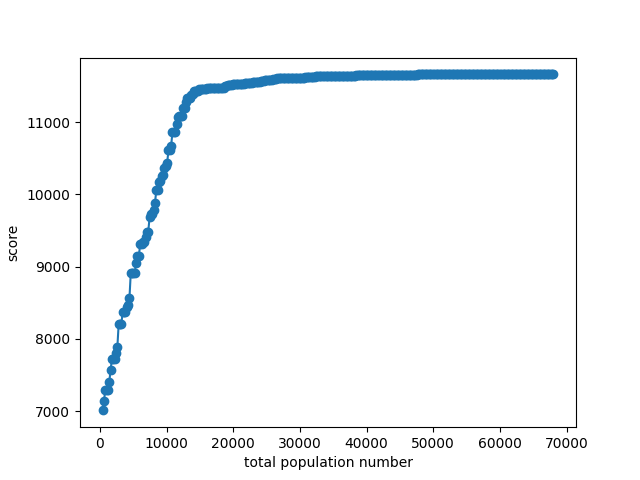
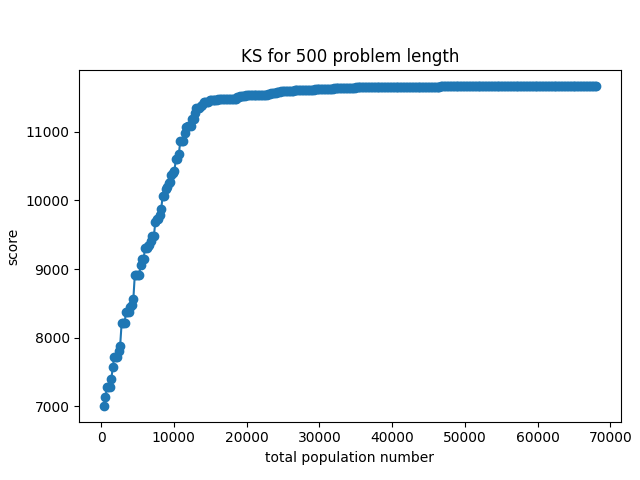
first

diff --git a/HW2.py b/HW2.py
@@ -38,6 +38,39 @@ def plotter(x,y,label,name,x_label="number of iterations"):
     plt.plot(x, y , "-o", label=label)
     plt.xlabel(x_label)
     plt.ylabel("score")
+    plt.title(label)
+    plt.savefig(name)
+    plt.clf()
+
+def plotter22(x1,y1,x2,y2,x3,y3,x4,y4,name,label_suf):
+    plt.subplot(2,2,1)
+    plt.plot(x1, y1 , "-o", label="RHC for"+label_suf)
+    plt.xlabel("number of iterations")
+    plt.ylabel("score")
+    plt.title("RHC for"+label_suf)
+
+    plt.subplot(2, 2, 2)
+    plt.plot(x2, y2, "-o", label="SA for" + label_suf)
+    plt.xlabel("number of iterations")
+    plt.ylabel("score")
+    plt.title("SA for" + label_suf)
+
+    plt.subplot(2, 2, 3)
+    plt.plot(x3, y3, "-o", label="GA for" + label_suf)
+    plt.xlabel("total population")
+    plt.ylabel("score")
+    plt.title("GA for" + label_suf)
+
+    plt.subplot(2, 2, 4)
+    plt.plot(x4, y4, "-o", label="MIMIC for" + label_suf)
+    plt.xlabel("total population")
+    plt.ylabel("score")
+    plt.title("MIMIC for" + label_suf)
+
+    plt.suptitle(label_suf+ " problem")
+
+    plt.tight_layout()
+
     plt.savefig(name)
     plt.clf()
 
@@ -75,7 +108,7 @@ print("---------------------")
 
 problem_set = mlrose_hiive.DiscreteOpt(queens,fun,max_val = queens)
 
-if 0:
+if 1:
     t0=time.time()
     queens_RHC = mlrose_hiive.random_hill_climb(problem_set, max_attempts=5000, max_iters=10000, restarts=0,init_state=None, curve=True, random_state=812)
     dt=time.time()-t0
@@ -83,7 +116,7 @@ if 0:
     plotter(queens_RHC[2][:,1], queens_RHC[2][:,0],"RHC for "+str(queens)+" queens", "Queens_RHC.png")
     print("---------------------")
 
-if 0:
+if 1:
     t0=time.time()
     queens_SA = mlrose_hiive.simulated_annealing(problem_set, schedule=mlrose_hiive.GeomDecay(), max_attempts=1000,max_iters=10000, init_state=None, curve=True,random_state=812)
     dt=time.time()-t0
@@ -91,7 +124,7 @@ if 0:
     plotter(queens_SA[2][:,1], queens_SA[2][:,0],"SA for "+str(queens)+" queens", "Queens_SA.png")
     print("---------------------")
 
-if 0:
+if 1:
     t0=time.time()
     queens_GA = mlrose_hiive.genetic_alg(problem_set, pop_size=200, mutation_prob=0.1, max_attempts=20,max_iters=20000, curve=True, random_state=812)
     dt=time.time()-t0
@@ -99,13 +132,15 @@ if 0:
     plotter(queens_GA[2][:,1], queens_GA[2][:,0],"GA for "+str(queens)+" queens", "Queens_GA.png","total population number")
     print("---------------------")
 
-if 0:
+if 1:
     t0=time.time()
     queens_MIMIC = mlrose_hiive.mimic(problem_set, pop_size=500, keep_pct=0.5, max_attempts=10,max_iters=20000, curve=True, random_state=812)
     dt=time.time()-t0
     print("Queens MIMIC for ",queens," run for ", dt," seconds ", "with the best score of ",  queens_MIMIC[1])
     plotter(queens_MIMIC[2][:,1], queens_MIMIC[2][:,0],"MIMIC for "+str(queens)+" queens", "Queens_MIMIC.png","total population number")
     print("---------------------")
+
+    plotter22(queens_RHC[2][:,1], queens_RHC[2][:,0],queens_SA[2][:,1], queens_SA[2][:,0],queens_GA[2][:,1], queens_GA[2][:,0],queens_MIMIC[2][:,1], queens_MIMIC[2][:,0], "Queens_full_plot.png", str(queens)+" queens")
 
 
 #FlipFlop
@@ -236,7 +271,7 @@ if 0:
 knap_num=500
 problem_set = mlrose_hiive.KnapsackOpt(weights=np.random.uniform(20,40,knap_num), values=np.random.uniform(20,30,knap_num),max_weight_pct=0.9)
 
-if 0:
+if 1:
     t0=time.time()
     KS_RHC = mlrose_hiive.random_hill_climb(problem_set, max_attempts=5000, max_iters=5000, restarts=0,init_state=None, curve=True, random_state=812)
     dt=time.time()-t0
@@ -244,29 +279,32 @@ if 0:
     plotter(KS_RHC[2][:,1], KS_RHC[2][:,0],"KS for "+str(knap_num)+" problem length", "KS_RHC.png")
     print("---------------------")
 
-if 0:
+if 1:
     t0=time.time()
     KS_SA = mlrose_hiive.simulated_annealing(problem_set, schedule=mlrose_hiive.GeomDecay(), max_attempts=5000,max_iters=500000, init_state=None, curve=True,random_state=812)
     dt=time.time()-t0
     print("KS SA for ",knap_num," run for ", dt," seconds ", "with the best score of ",  KS_SA[1])
-    plotter(KS_SA[2][:,1], KS_SA[2][:,0],"KS for "+str(knap_num)+" problem length", "KS_SA.png")
+    plotter(KS_SA[2][:,1], KS_SA[2][:,0],"KS for "+str(knap_num)+" items in knapsack", "KS_SA.png")
     print("---------------------")
 
-if 0:
+if 1:
     t0=time.time()
     KS_GA = mlrose_hiive.genetic_alg(problem_set, pop_size=200, mutation_prob=0.1, max_attempts=100,max_iters=5000, curve=True, random_state=812)
     dt=time.time()-t0
     print("KS GA for ",knap_num," run for ", dt," seconds ", "with the best score of ",  KS_GA[1])
-    plotter(KS_GA[2][:,1], KS_GA[2][:,0],"KS for "+str(knap_num)+" problem length", "KS_GA.png","total population number")
+    plotter(KS_GA[2][:,1], KS_GA[2][:,0],"KS for "+str(knap_num)+" items in knapsack", "KS_GA.png","total population number")
     print("---------------------")
 
-if 0:
+if 1:
     t0=time.time()
     KS_MIMIC = mlrose_hiive.mimic(problem_set, pop_size=20, keep_pct=0.5, max_attempts=10,max_iters=50, curve=True, random_state=812)
     dt=time.time()-t0
     print("KS MIMIC for ",knap_num," run for ", dt," seconds ", "with the best score of ",  KS_MIMIC[1])
-    plotter(KS_MIMIC[2][:,1], KS_MIMIC[2][:,0],"KS for "+str(knap_num)+" problem length", "KS_MIMIC.png","total population number")
+    plotter(KS_MIMIC[2][:,1], KS_MIMIC[2][:,0],"KS for "+str(knap_num)+" items in knapsack", "KS_MIMIC.png","total population number")
     print("---------------------")
+
+    plotter22(KS_RHC[2][:,1], KS_RHC[2][:,0],KS_SA[2][:,1], KS_SA[2][:,0],KS_GA[2][:,1], KS_GA[2][:,0],KS_MIMIC[2][:,1], KS_MIMIC[2][:,0], "KS_full_plot.png", str(knap_num)+" items in knapsack")
+
 
 
 #Four peaks
@@ -299,42 +337,45 @@ for i in range(num_edges):
 
 problem_set = mlrose_hiive.DiscreteOpt(length = num_dots, fitness_fn = mlrose_hiive.MaxKColor(edges), maximize=True,max_val=num_colors)
 
-if 0:
+if 1:
     t0=time.time()
     KC_RHC = mlrose_hiive.random_hill_climb(problem_set, max_attempts=5000, max_iters=50000, restarts=0,init_state=None, curve=True, random_state=812)
     dt=time.time()-t0
     print("KC RHC for ", num_edges, " run for ", dt, " seconds ", "with the best score of ", KC_RHC[1])
-    plotter(KC_RHC[2][:, 1], KC_RHC[2][:, 0], "KC for " + str(num_edges) + " problem length", "KC_RHC.png")
+    plotter(KC_RHC[2][:, 1], KC_RHC[2][:, 0], "KC for " str(num_edges)+" number of edges "+str(num_towns)+" nodes and "+str(num_colors)+" colors", "KC_RHC.png")
     print("---------------------")
 
-if 0:
+if 1:
     t0=time.time()
     KC_SA = mlrose_hiive.simulated_annealing(problem_set, schedule=mlrose_hiive.GeomDecay(), max_attempts=5000,max_iters=50000, init_state=None, curve=True,random_state=812)
     dt=time.time()-t0
     print("KC SA for ",num_edges," run for ", dt," seconds ", "with the best score of ",  KC_SA[1])
-    plotter(KC_SA[2][:,1], KC_SA[2][:,0],"FP for "+str(num_edges)+" problem length", "KC_SA.png")
+    plotter(KC_SA[2][:,1], KC_SA[2][:,0],"KC for "+str(num_edges)+" number of edges "+str(num_towns)+" nodes and "+str(num_colors)+" colors", "KC_SA.png")
     print("---------------------")
 
-if 0:
+if 1:
     t0=time.time()
     KC_GA = mlrose_hiive.genetic_alg(problem_set, pop_size=500, mutation_prob=0.5, max_attempts=100,max_iters=15000, curve=True, random_state=812)
     dt=time.time()-t0
     print("KC GA for ",num_edges," run for ", dt," seconds ", "with the best score of ",  KC_GA[1])
-    plotter(KC_GA[2][:,1], KC_GA[2][:,0],"KS for "+str(num_edges)+" number of edges", "KC_GA.png","total population number")
+    plotter(KC_GA[2][:,1], KC_GA[2][:,0],"KC for "+str(num_edges)+" number of edges "+str(num_towns)+" nodes and "+str(num_colors)+" colors", "KC_GA.png","total population number")
     print("---------------------")
 
-if 0:
+if 1:
     t0=time.time()
     KC_MIMIC = mlrose_hiive.mimic(problem_set, pop_size=400, keep_pct=0.8, max_attempts=20,max_iters=200, curve=True, random_state=812)
     dt=time.time()-t0
     print("KC MIMIC for ",num_edges," run for ", dt," seconds ", "with the best score of ",  KC_MIMIC[1])
-    plotter(KC_MIMIC[2][:,1], KC_MIMIC[2][:,0],"KC for "+str(num_edges)+" number of edges", "KC_MIMIC.png","total population number")
+    plotter(KC_MIMIC[2][:,1], KC_MIMIC[2][:,0],"KC for "+str(num_edges)+" number of edges "+str(num_towns)+" nodes and "+str(num_colors)+" colors", "KC_MIMIC.png","total population number")
     print("---------------------")
+
+    plotter22(KC_RHC[2][:,1], KC_RHC[2][:,0],KC_SA[2][:,1], KC_SA[2][:,0],KC_GA[2][:,1], KC_GA[2][:,0],KC_MIMIC[2][:,1], KC_MIMIC[2][:,0], "KC_full_plot.png", str(num_edges)+" number of edges "+str(num_towns)+" nodes and "+str(num_colors)+" colors")
+
 
 
 #Nueral nets optimizers
 fruits_train_x,fruits_train_y,fruits_test_x,fruits_test_y= frames("fruits_data.csv",0.2)
-if 0:
+if 1:
     Classifier=MLPClassifier(tol=0.005,hidden_layer_sizes=[25,25],activation='relu',learning_rate="constant",learning_rate_init=0.01, random_state=812)
     Classifier_RHC = mlrose_hiive.NeuralNetwork(hidden_nodes = [25,25], activation = 'relu', algorithm ="random_hill_climb",
                                      learning_rate = 0.02, random_state = 812,pop_size=200,mutation_prob=0.02,max_iters=100000)
@@ -376,24 +417,24 @@ if 0:
 
 Classifier=MLPClassifier(tol=0.005,hidden_layer_sizes=[25,25],activation='relu',learning_rate="constant",learning_rate_init=0.01, random_state=812)
 Classifier_RHC = mlrose_hiive.NeuralNetwork(hidden_nodes = [25,25], activation = 'relu', algorithm ="random_hill_climb",
-                                 learning_rate = 0.02, random_state = 812,pop_size=200,mutation_prob=0.02,max_iters=100000)
+                                 learning_rate = 0.02, random_state = 812,pop_size=200,mutation_prob=0.02,max_iters=10000)
 Classifier_SA = mlrose_hiive.NeuralNetwork(hidden_nodes = [25,25], activation = 'relu', algorithm ="simulated_annealing", schedule=mlrose_hiive.GeomDecay(init_temp=1, decay=0.99, min_temp=0.001),
-                                 learning_rate = 0.02, random_state = 812,pop_size=200,mutation_prob=0.02,max_iters=100000)
+                                 learning_rate = 0.02, random_state = 812,pop_size=200,mutation_prob=0.02,max_iters=10000)
 Classifier_GA = mlrose_hiive.NeuralNetwork(hidden_nodes = [25,25], activation = 'relu', algorithm = 'genetic_alg',
-                                 learning_rate = 0.02, random_state = 812,pop_size=50,mutation_prob=0.01,max_iters=5000)
+                                 learning_rate = 0.02, random_state = 812,pop_size=50,mutation_prob=0.01,max_iters=500)
 
 t0=time.time()
 a, train_score, test_score = sklearn.model_selection.learning_curve(Classifier, fruits_train_x,pd.get_dummies(fruits_train_y), train_sizes=np.linspace(0.25,1,10),scoring='f1_weighted', cv=2, n_jobs=-1)
 plot_11(train_score.mean(axis=1), test_score.mean(axis=1), np.linspace(0.25,1,10) * len(fruits_train_x), "NN_learning_curve","sample size", "NN_learning_curve.png")
 print(time.time()-t0," seconds")
 
-#a, train_score, test_score = sklearn.model_selection.learning_curve(Classifier_RHC, fruits_train_x,pd.get_dummies(fruits_train_y), train_sizes=np.linspace(0.25,1,10),scoring='f1_weighted', cv=2, n_jobs=-1)
-#plot_11(train_score.mean(axis=1), test_score.mean(axis=1), np.linspace(0.25,1,10) * len(fruits_train_x), "NN_RHC_learning_curve","sample size", "NN_RHC_learning_curve.png")
-#print(time.time()-t0," seconds")
+a, train_score, test_score = sklearn.model_selection.learning_curve(Classifier_RHC, fruits_train_x,pd.get_dummies(fruits_train_y), train_sizes=np.linspace(0.25,1,10),scoring='f1_weighted', cv=2, n_jobs=4)
+plot_11(train_score.mean(axis=1), test_score.mean(axis=1), np.linspace(0.25,1,10) * len(fruits_train_x), "NN_RHC_learning_curve","sample size", "NN_RHC_learning_curve.png")
+print(time.time()-t0," seconds")
 
-#a, train_score, test_score = sklearn.model_selection.learning_curve(Classifier_SA, fruits_train_x,pd.get_dummies(fruits_train_y), train_sizes=np.linspace(0.25,1,10),scoring='f1_weighted', cv=2, n_jobs=4)
-#plot_11(train_score.mean(axis=1), test_score.mean(axis=1), np.linspace(0.25,1,10) * len(fruits_train_x), "NN_SA_learning_curve","sample size", "NN_SA_learning_curve.png")
-#print(time.time()-t0," seconds")
+a, train_score, test_score = sklearn.model_selection.learning_curve(Classifier_SA, fruits_train_x,pd.get_dummies(fruits_train_y), train_sizes=np.linspace(0.25,1,10),scoring='f1_weighted', cv=2, n_jobs=4)
+plot_11(train_score.mean(axis=1), test_score.mean(axis=1), np.linspace(0.25,1,10) * len(fruits_train_x), "NN_SA_learning_curve","sample size", "NN_SA_learning_curve.png")
+print(time.time()-t0," seconds")
 
 a, train_score, test_score = sklearn.model_selection.learning_curve(Classifier_GA, fruits_train_x,pd.get_dummies(fruits_train_y), train_sizes=np.linspace(0.25,1,10),scoring='f1_weighted', cv=2, n_jobs=4)
 plot_11(train_score.mean(axis=1), test_score.mean(axis=1), np.linspace(0.25,1,10) * len(fruits_train_x), "NN_GA_learning_curve","sample size", "NN_GA_learning_curve.png")
